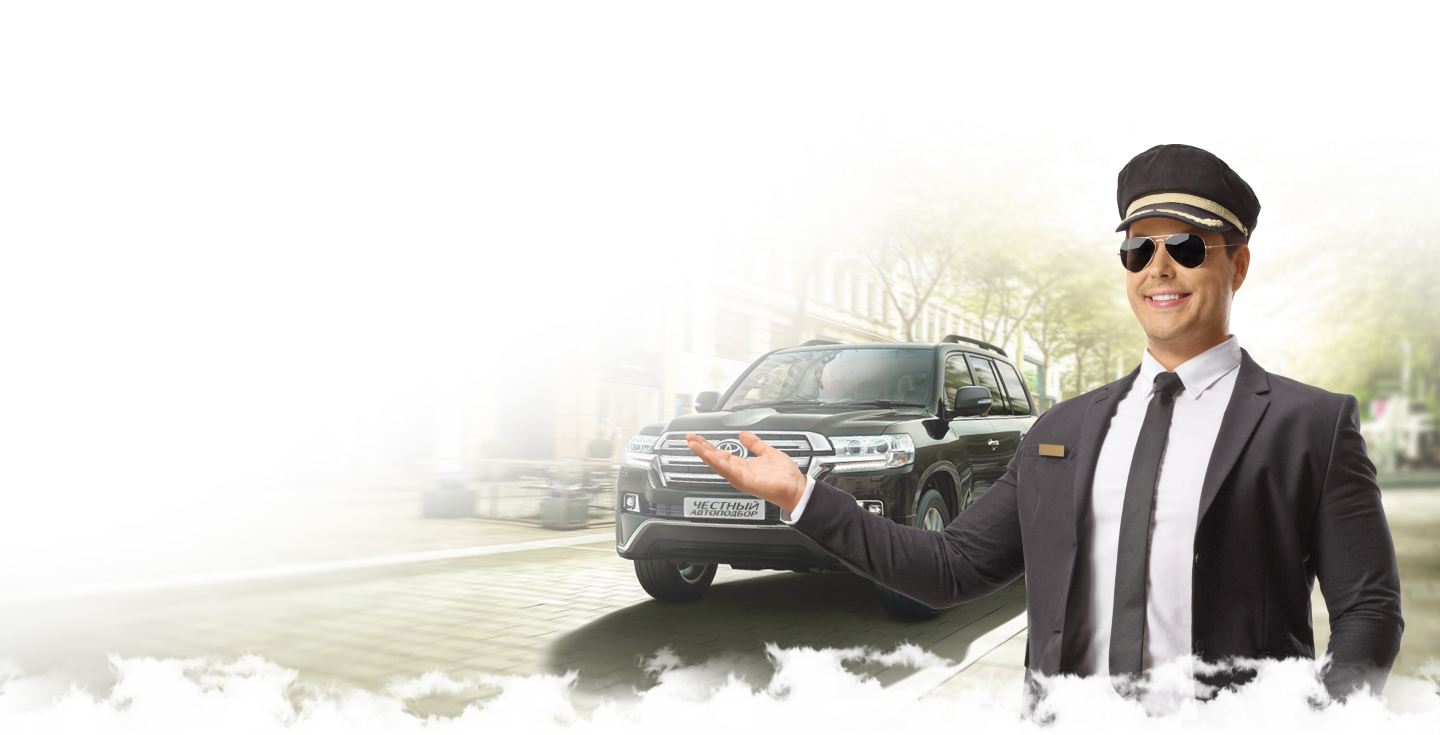
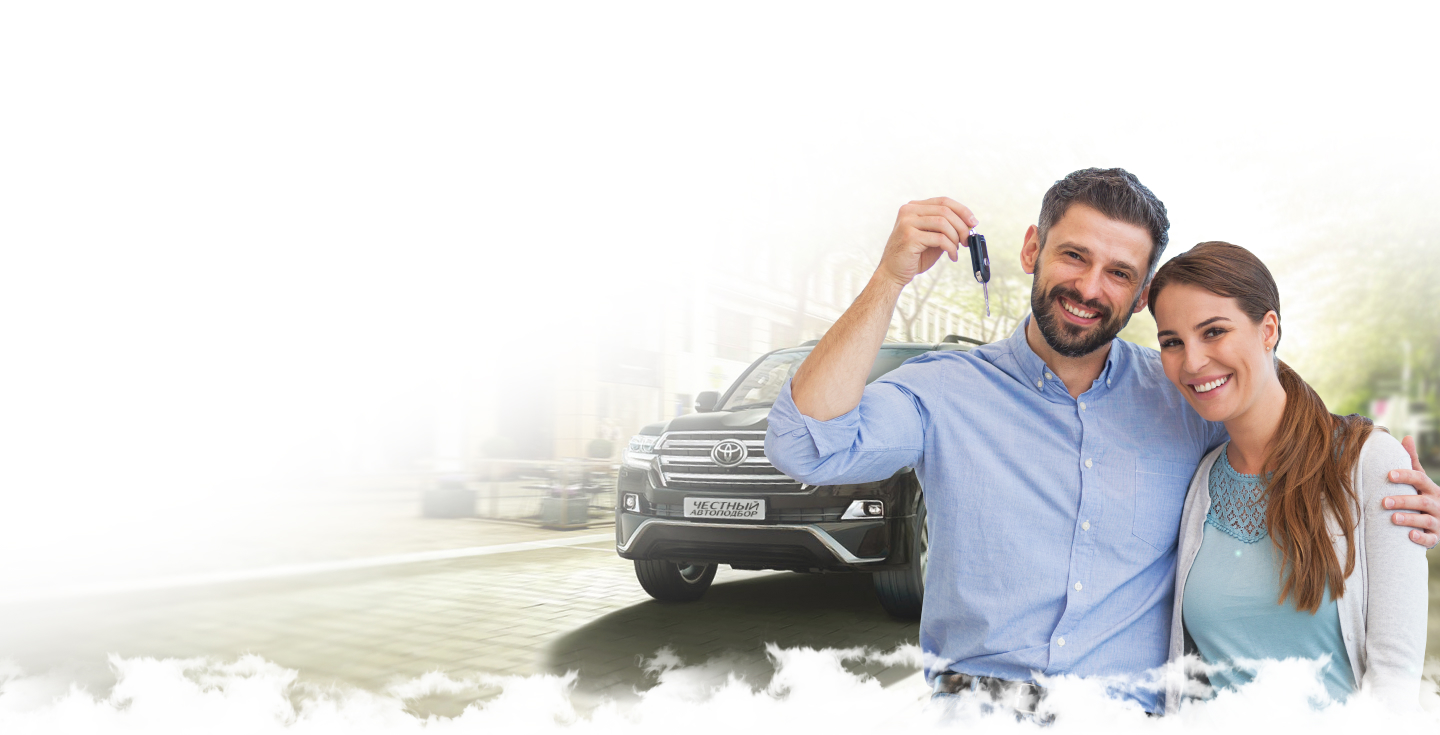
change main photo & adaptived

Changed region(s): [[0.4688, 0.1796, 1.0, 0.9878]]

diff --git a/src/components/Main/promo/Promo.module.scss b/src/components/Main/promo/Promo.module.scss
@@ -6,9 +6,9 @@
 }
 
 .mainAbroad {
-  background: url("./../../../assets/images/mainBgAbroad.jpg") right center/cover no-repeat;
+  background: url("./../../../assets/images/mainBgAbroad.jpg") 0% 30%/105% no-repeat;
 }
-@media screen and (min-width: 2000px){
+@media screen and (min-width: 1900px){
   .mainAbroad {
     background: url("./../../../assets/images/mainBgAbroad.jpg") right bottom/cover no-repeat;
   }
@@ -367,11 +367,17 @@
     background-position: -340px 160px;
     background-size: 1250px;
   }
+  .mainAbroad {
+    background: url("./../../../assets/images/mainBgAbroad.jpg") 70% 70%/110% no-repeat;
+  }
 }
 
 @media screen and (max-width: 822px) {
   .main {
     background-position: -375px 180px;
+  }
+  .mainAbroad {
+    background: url("./../../../assets/images/mainBgAbroad.jpg") 70% 70%/110% no-repeat;
   }
 }
 
@@ -451,8 +457,8 @@
   }
   .mainAbroad {
     background: url("./../../../assets/images/mainBgAbroad.jpg") center center/cover no-repeat;
-    background-position: -270px 150px;
-    background-size: 850px;
+    background-position: 85% 150px;
+    background-size: 750px;
   }
   .btnWrapper {
     width: 173px;
@@ -481,8 +487,8 @@
   }
   .mainAbroad {
     background: url("./../../../assets/images/mainBgAbroad.jpg") center center/cover no-repeat;
-    background-position: -270px 150px;
-    background-size: 800px;
+    background-position: 85%  190px;
+    background-size: 720px;
   }
   .moneyBlock {
     padding: 5px 14px;
@@ -506,14 +512,14 @@
   }
   .mainAbroad {
     background: url("./../../../assets/images/mainBgAbroad.jpg") center center/cover no-repeat;
-    background-position: 100% 270px;
-    background-size: 600px;
+    background-position: 85% 270px;
+    background-size: 580px;
   }
 }
 @media screen and (max-width: 372px){
   .mainAbroad {
     background: url("./../../../assets/images/mainBgAbroad.jpg") center center/cover no-repeat;
-    background-position: 100% 280px;
+    background-position: 88% 280px;
     background-size: 600px;
   }
 }
@@ -532,7 +538,7 @@
   }
   .mainAbroad {
     background: url("./../../../assets/images/mainBgAbroad.jpg") center center/cover no-repeat;
-    background-position: 100% 340px;
-    background-size: 500px;
+    background-position: 80% 340px;
+    background-size: 470px;
   }
 }

diff --git a/src/components/Main/promo/Promo.jsx b/src/components/Main/promo/Promo.jsx
@@ -85,19 +85,20 @@ const PlusesAbroad = () => {
 const MainTitle = () => {
     const {dispatch, state} = useModalContext();
     return (
-        <div className={localStorage.getItem('isLoggedOut') ? cn(styles.mainTitleBlock, styles.mainTitleBlock2) : styles.mainTitleBlock}>
+        <div
+            className={localStorage.getItem('isLoggedOut') ? cn(styles.mainTitleBlock, styles.mainTitleBlock2) : styles.mainTitleBlock}>
             {
                 state.discount
-                ?
+                    ?
                     localStorage.getItem('promo_header2')
                         ? <h1 className={styles.mainTitle}
                               dangerouslySetInnerHTML={{__html: localStorage.getItem('promo_header2')}}
                         ></h1>
                         : ''
-                :
+                    :
                     localStorage.getItem('promo_header')
                         ? <h1 className={styles.mainTitle}
-                               dangerouslySetInnerHTML={{__html: localStorage.getItem('promo_header')}}
+                              dangerouslySetInnerHTML={{__html: localStorage.getItem('promo_header')}}
                         ></h1>
                         : ''
             }
@@ -135,7 +136,8 @@ const MainTitle = () => {
 const MainTitleAbroad = () => {
     const {dispatch, state} = useModalContext();
     return (
-        <div className={localStorage.getItem('isLoggedOut') ? cn(styles.mainTitleBlock, styles.mainTitleBlock2) : styles.mainTitleBlock}>
+        <div
+            className={localStorage.getItem('isLoggedOut') ? cn(styles.mainTitleBlock, styles.mainTitleBlock2) : styles.mainTitleBlock}>
             {
                 localStorage.getItem('euro_first_page_header')
                     ? <h1 className={styles.mainTitle}
